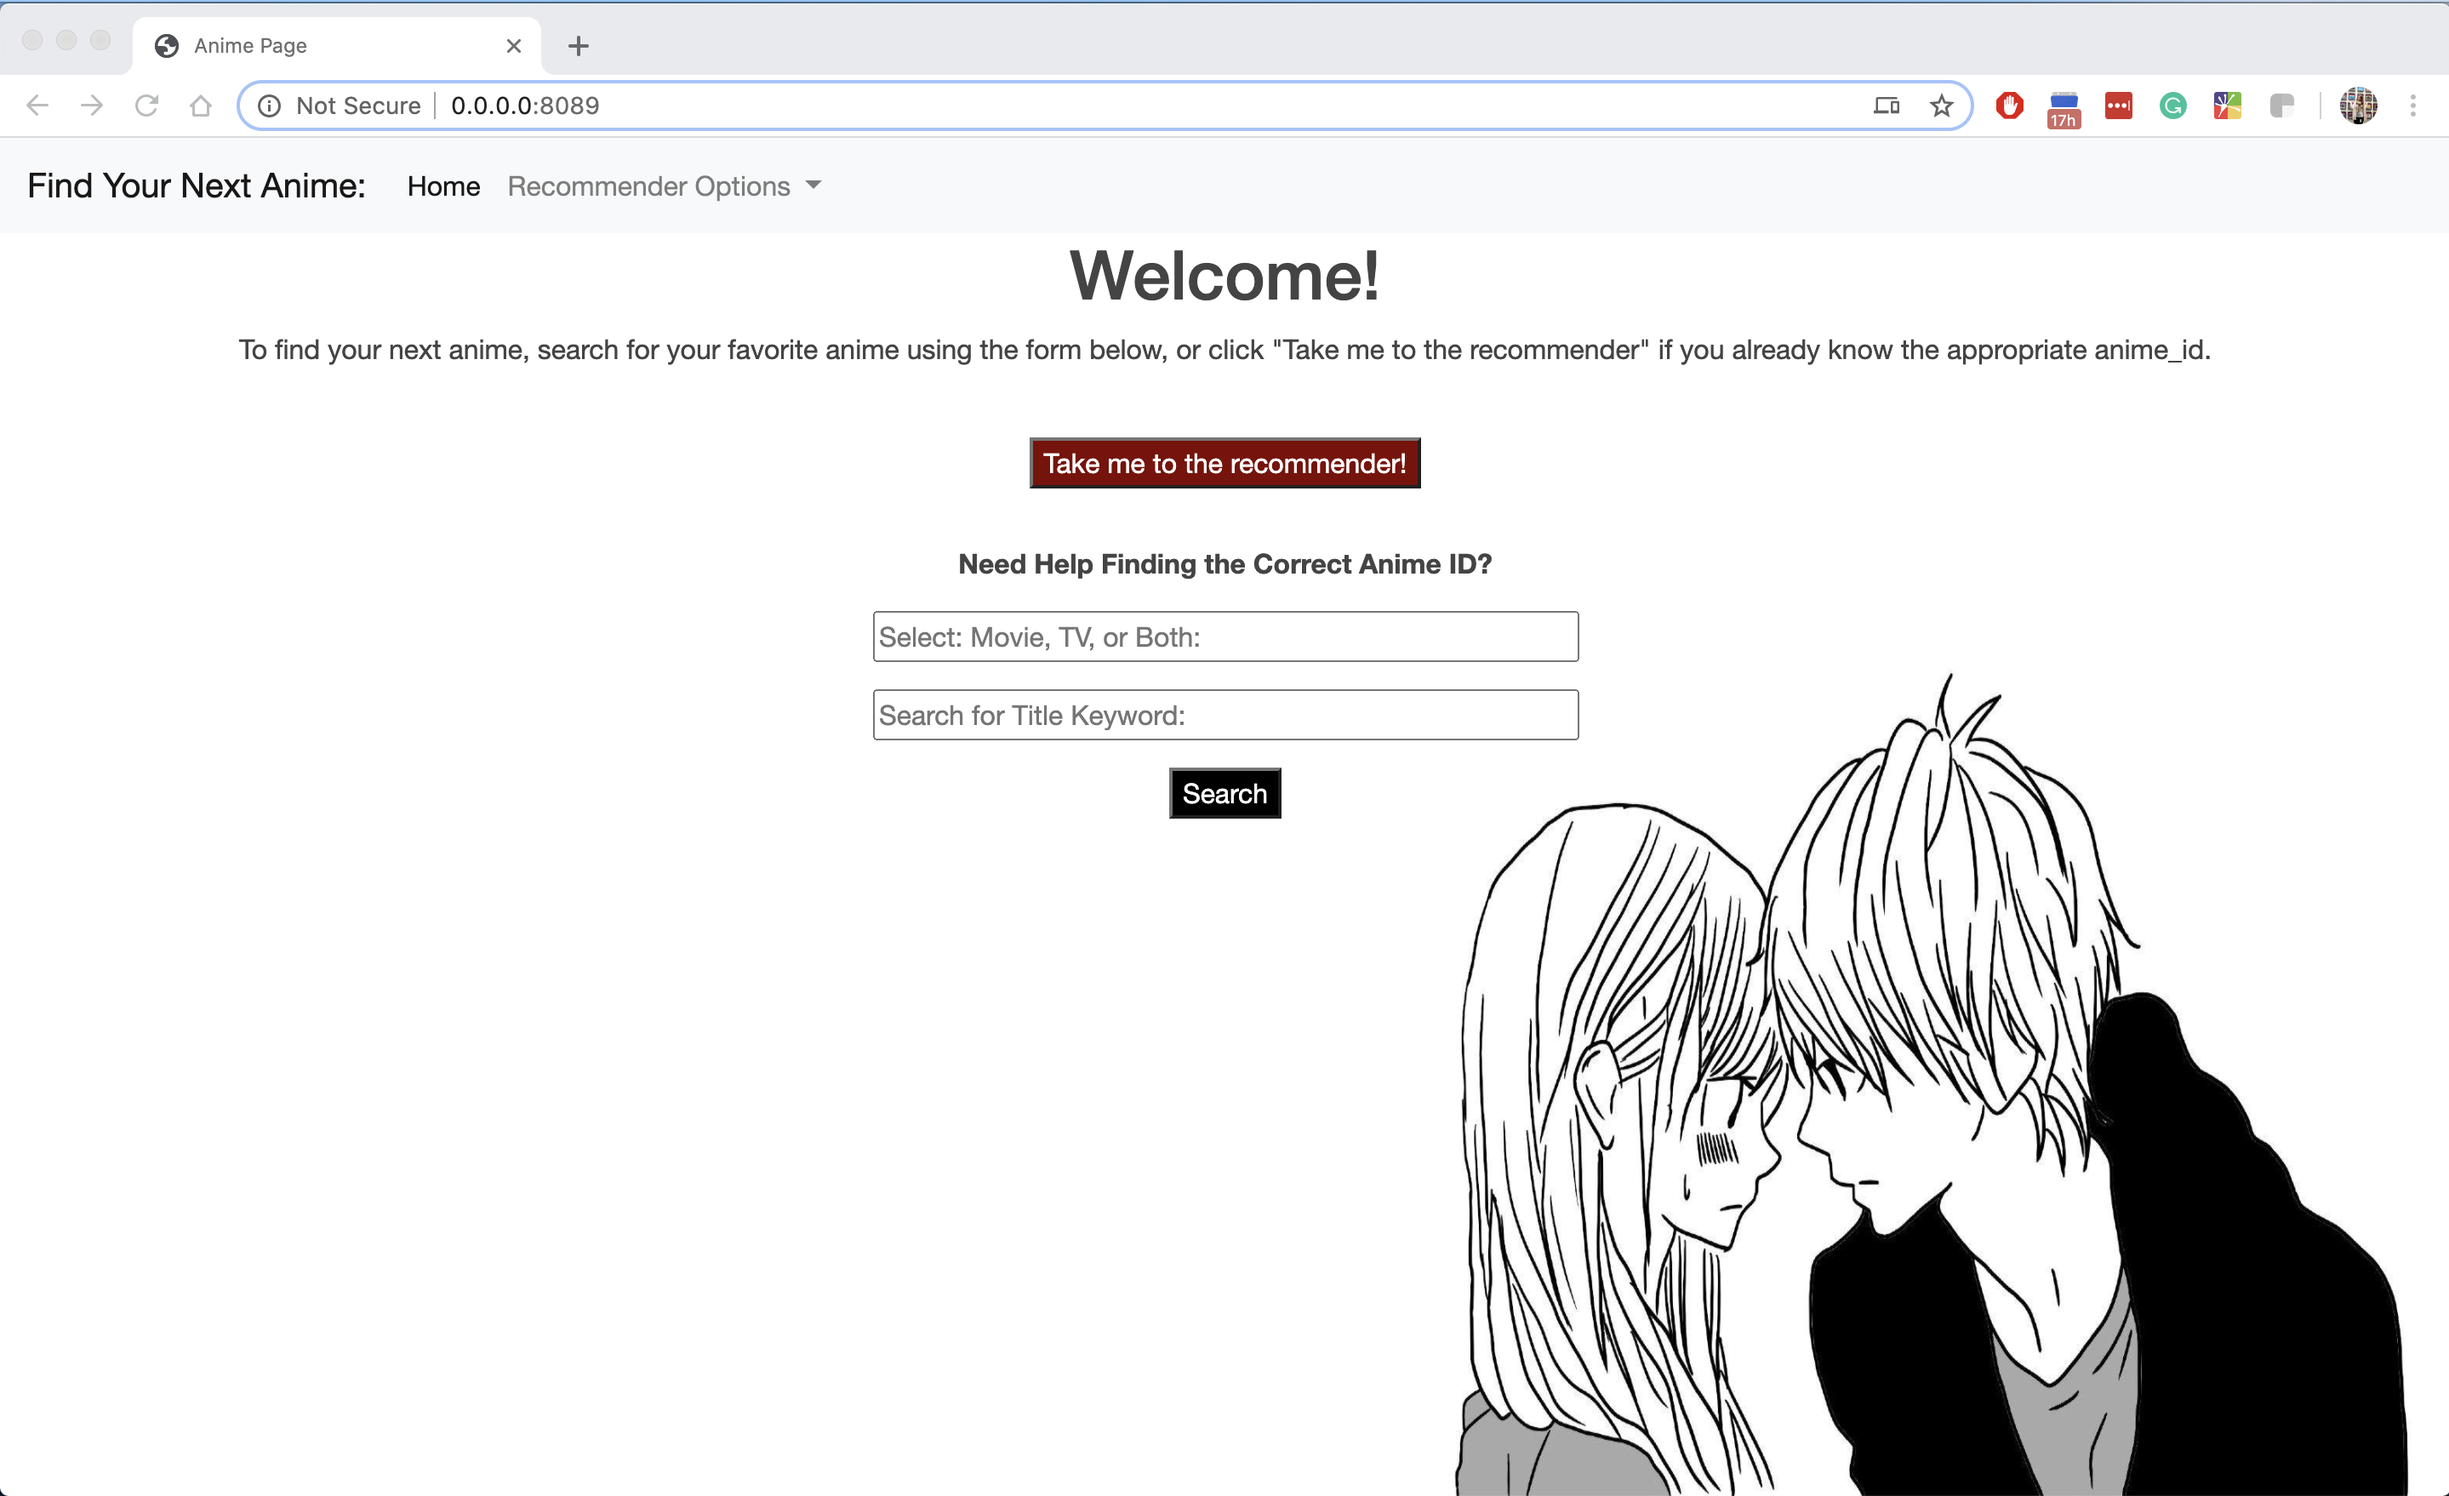
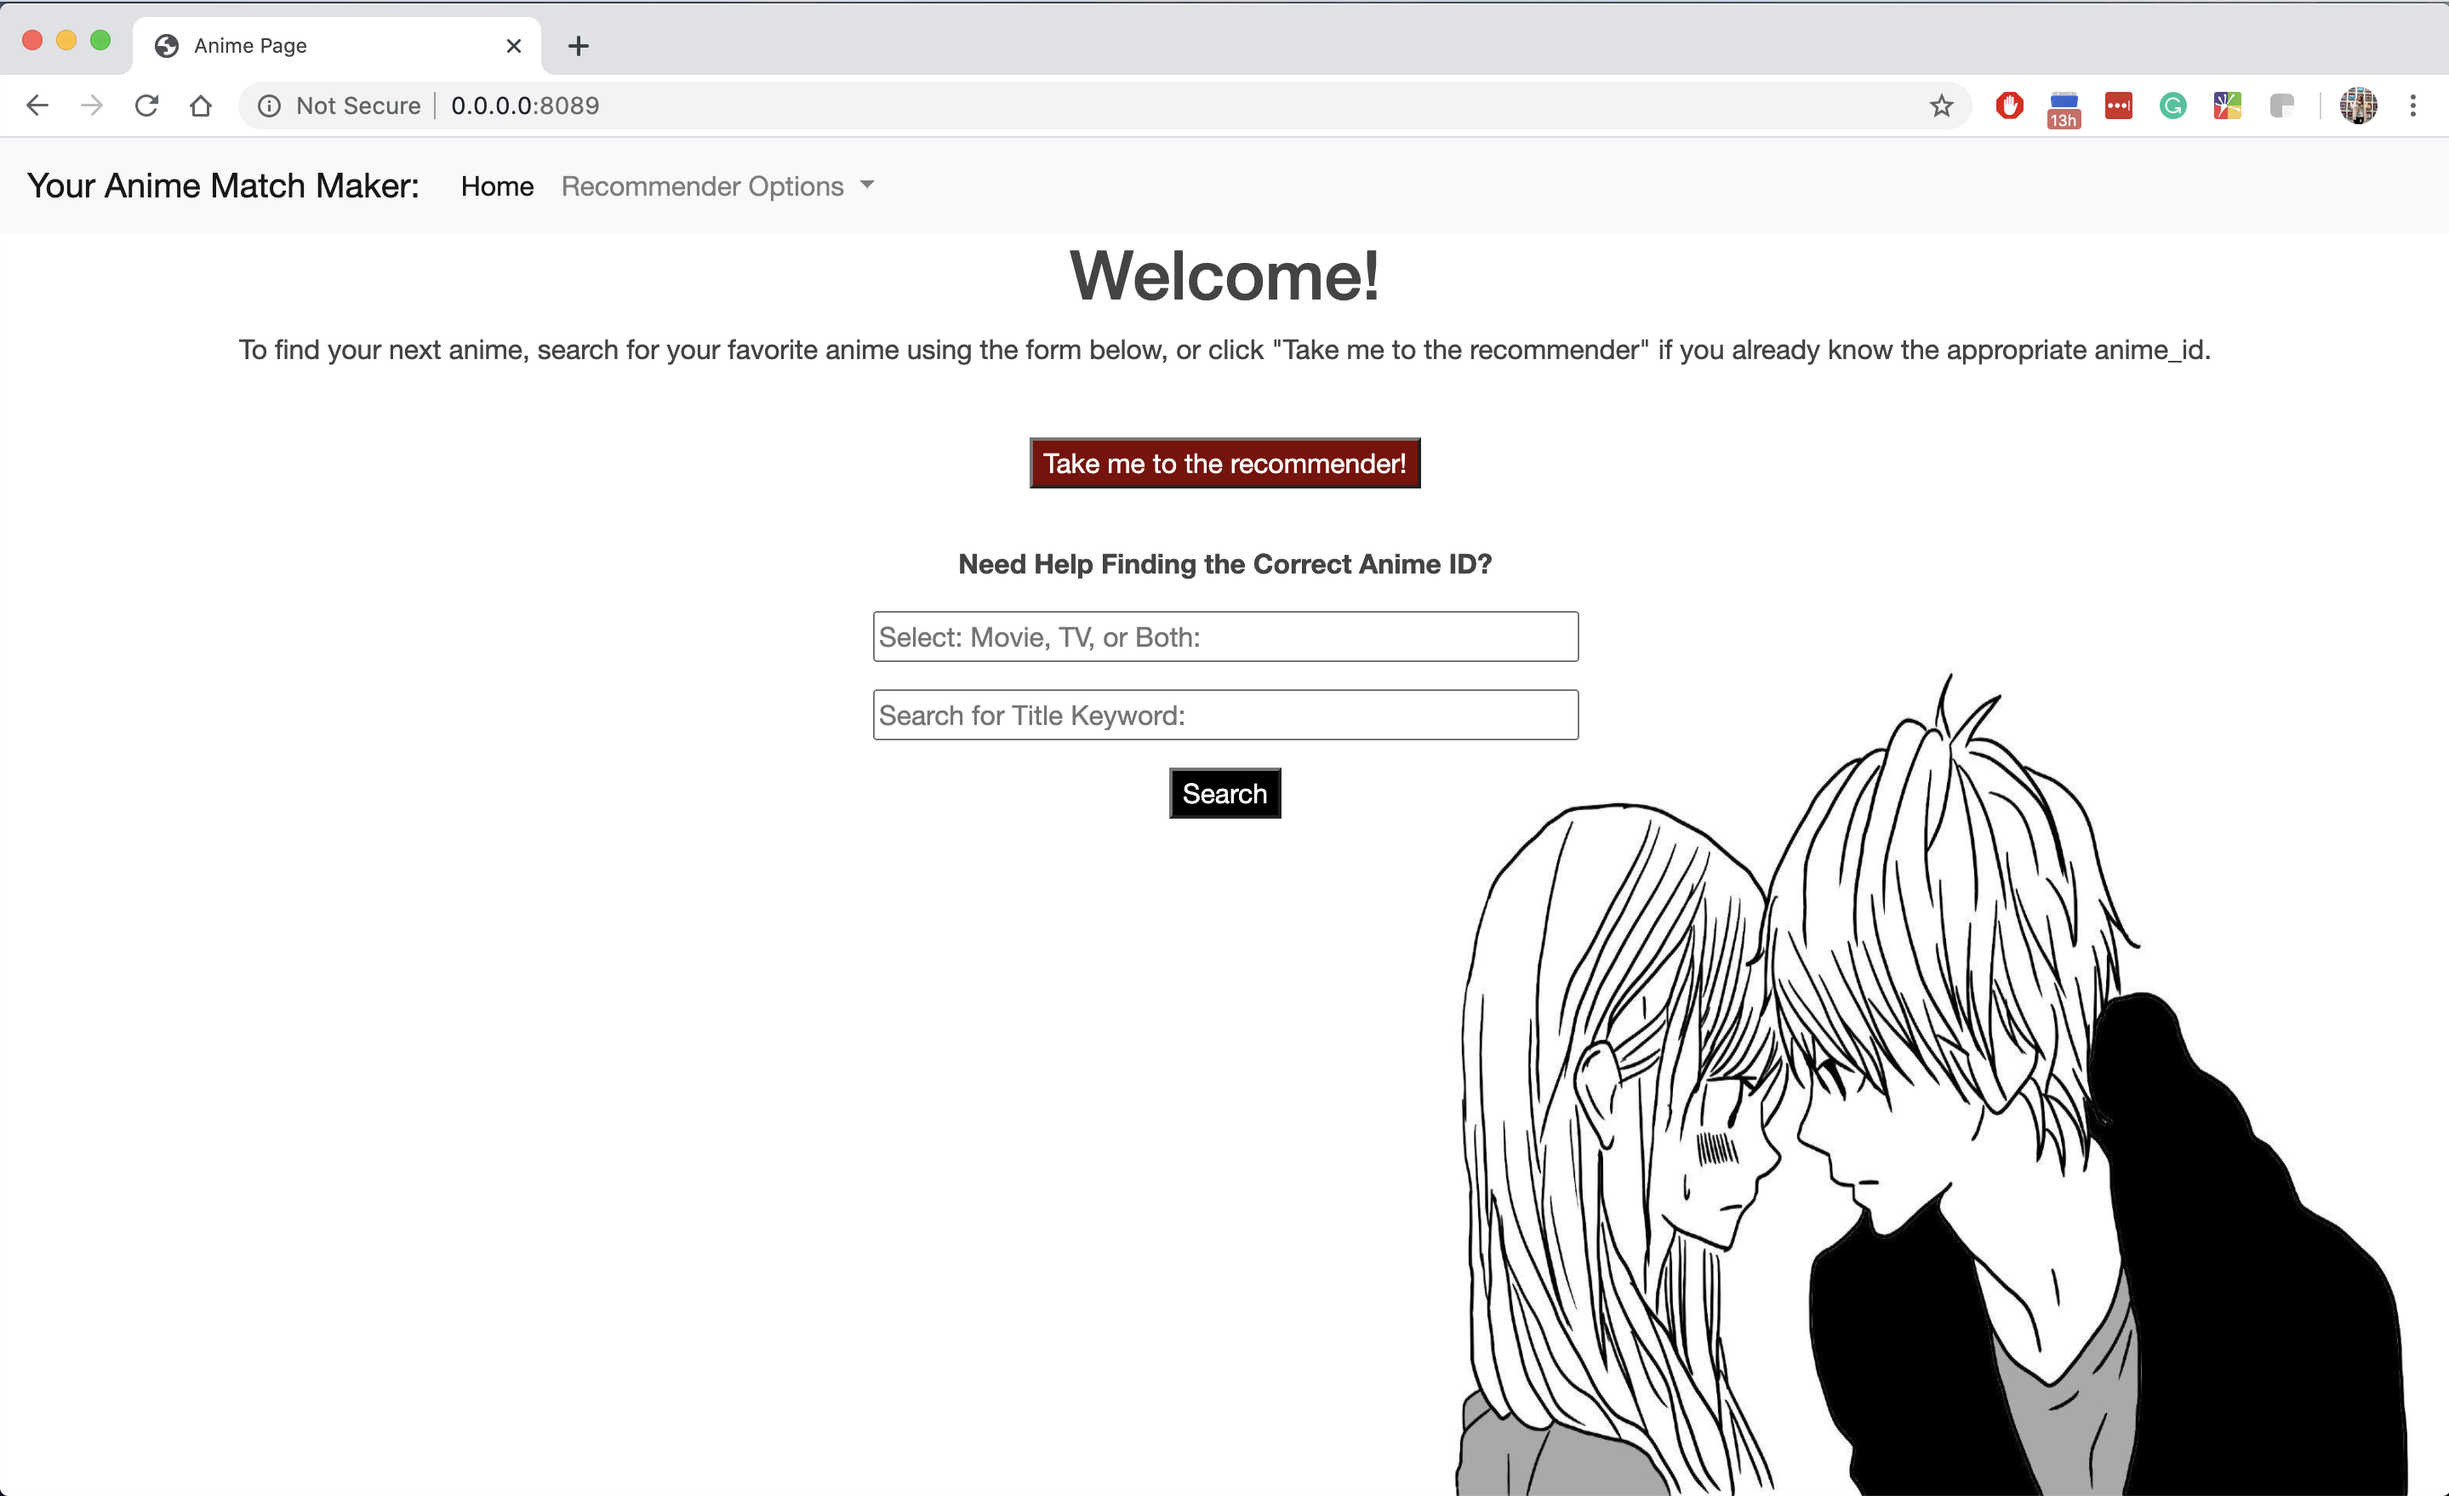
updated welcome page

diff --git a/templates/base.html b/templates/base.html
@@ -7,7 +7,7 @@
     </head>
     <body>
         <nav class="navbar navbar-expand-lg navbar-light bg-light">
-            <a class="navbar-brand" href="#">Find Your Next Anime:</a>
+            <a class="navbar-brand" href="#">Your Anime Match Maker:</a>
             <button class="navbar-toggler" type="button" data-toggle="collapse" data-target="#navbarSupportedContent" aria-controls="navbarSupportedContent" aria-expanded="false" aria-label="Toggle navigation">
               <span class="navbar-toggler-icon"></span>
             </button>

diff --git a/README.md b/README.md
@@ -1,7 +1,7 @@
 # Welcome to your anime match maker.
 ![image](images/flask_welcome.png)
 ## Contents
-* [Motivations & Goals](#motivations-&-goals)
+* [Motivations & Goals](#motivations-and-goals)
 * [The Data](#the-data)
   * [Data Cleaning](#data-cleaning)
   * [Exploratory Data Analysis](#eda)
@@ -12,7 +12,7 @@
 * [Find Your Next Anime!](#flask-app-find-your-next-anime)
 * [Conclusion, Caveats and Next Steps](#conclusion-caveats-and-next-steps)
 
-## Motivations & Goals
+## Motivations and Goals
 Since shelter-in-place was enacted, more people have been staying home looking for more ways to pass the time. Like many, I found myself wanting to escape to a world of fantasy, and found that anime was the best way to do this.
 <br>However, when I finished one anime, I was surpised how difficult it was to find a similar anime to the one I enjoyed. It required searching on Google and going through various forums to find suggestions that seemed aligned to my tastes.
 <br>**In order to address this problem, my goal will be to create:**
@@ -32,7 +32,6 @@ Since shelter-in-place was enacted, more people have been staying home looking f
 
 ## Data Cleaning
 * Ratings: Removed all ratings with '-1' which indicates no rating.
-* Ratings matrix does not have ALL of the ratings provided by the users that make up the average rating column in the anime_df, will need to consider this for the collaborative filter based recommender. 
 
 **Combining dataframes to get one large dataframe with all metadata for each anime**
 * The function for below cleaning is stored in src/data_funcs.py, full_anime_df() function: 
@@ -141,7 +140,7 @@ Explored simple KNN & SVD based collaborative filter models, imputing the NaN's 
 
 ## Model Based Collaborative Filtering with Spark ALS
 * Lastly, I used Spark's ALS model to fit a collaborative filter based recommender that will recommend anime based on the preferences of other users who liked the anime you provided.
-* Basline hyper-parameters: cold-start strategy: drop, 10 latent features, 20 max iterations and 0.1 regularization, this gave me a validation RMSE of 0.13. I then used ALS model's cross validator estimator to tune the model.
+* Basline hyper-parameters: cold-start strategy: drop, 10 latent features, 20 max iterations and 0.1 regularization, this gave me a validation RMSE of 1.13. I then used ALS model's cross validator estimator to tune the model.
 * Functions for this recommender are stored in src/als_collab_filt.py, and tuning of the model is stored in ALS_tuning.ipynb. Tuning of the model was done on AWS Sagemaker.
 
 **Results**
